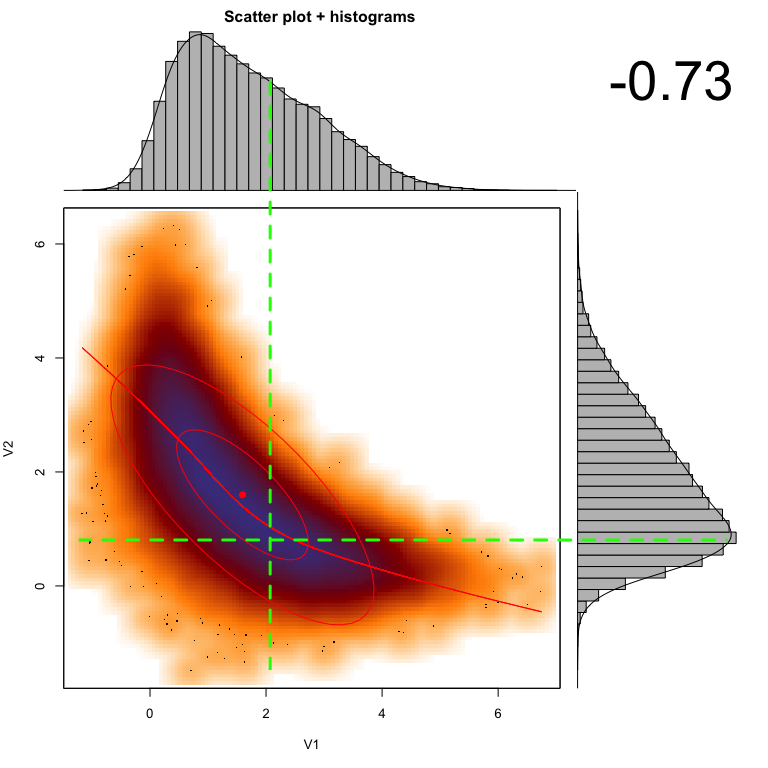
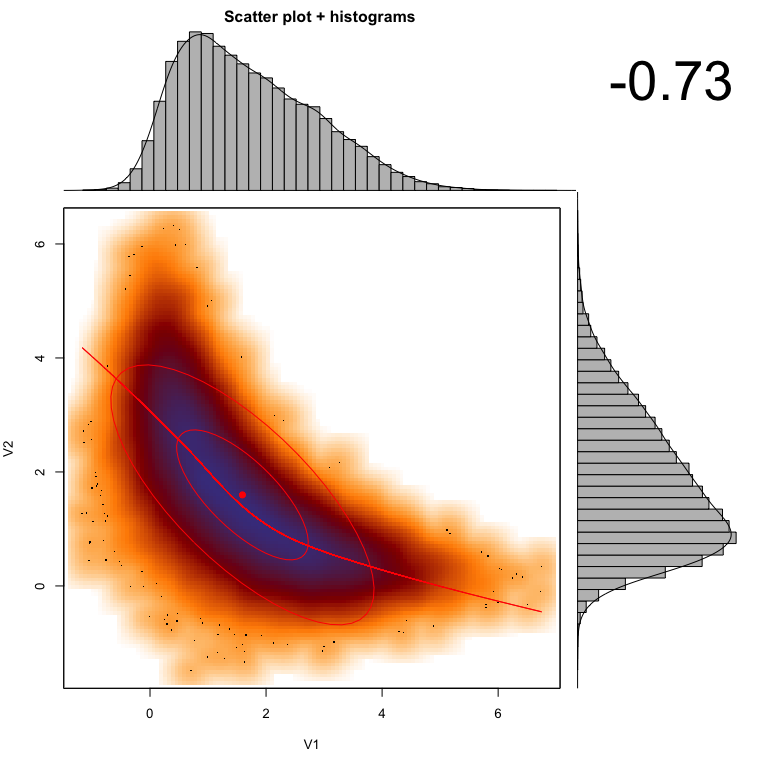
update

Changed region(s): [[0.125, 0.0938, 0.9375, 0.8438]]

diff --git a/CommentedCode/01-Principles/Posterior.md b/CommentedCode/01-Principles/Posterior.md
@@ -157,21 +157,25 @@ A further issue that many people are not aware of is that the marginal mode (max
 
 
 
-If we plot the correlation, as well as the marginal distributions (i.e. the histograms for each parameter), you see that the mode of the marginal distributions (green, dashed) will not conincide with the multivariate mode (red, solid lines).
+If we plot the correlation, as well as the marginal distributions (i.e. the histograms for each parameter), you see that the mode of the marginal distributions will not conincide with the multivariate mode (red, solid lines).
 
 
 ```r
 set.seed(124)
 sample=banana(A=0.5,B=0,C1=3,C2=3,50000)
 scatterhist(sample[,1], sample[,2])
-
-#par(mfg = c(2,1))
-
-abline(h = 0.22, col = "green", lwd = 3, lty =2)
-abline(v = 0.295, col = "green", lwd = 3, lty =2)
 ```
 
 ![](Posterior_files/figure-html/unnamed-chunk-10-1.png) 
+
+```r
+#par(mfg = c(2,1))
+
+# skaliert nicht richtig!!!, vielleicht in die Histogramme einbauen?
+
+#abline(h = 0.22, col = "green", lwd = 3, lty =2)
+#abline(v = 0.295, col = "green", lwd = 3, lty =2)
+```
 
 Hence, it's important to note that the marginal distributions are not suited to calculate the MAP, CIs, HPDs or any other summary statistics if the posterior distribution is not symmetric in multivariate space. This is a real point of confusion for many people, so keep it in mind!
 
